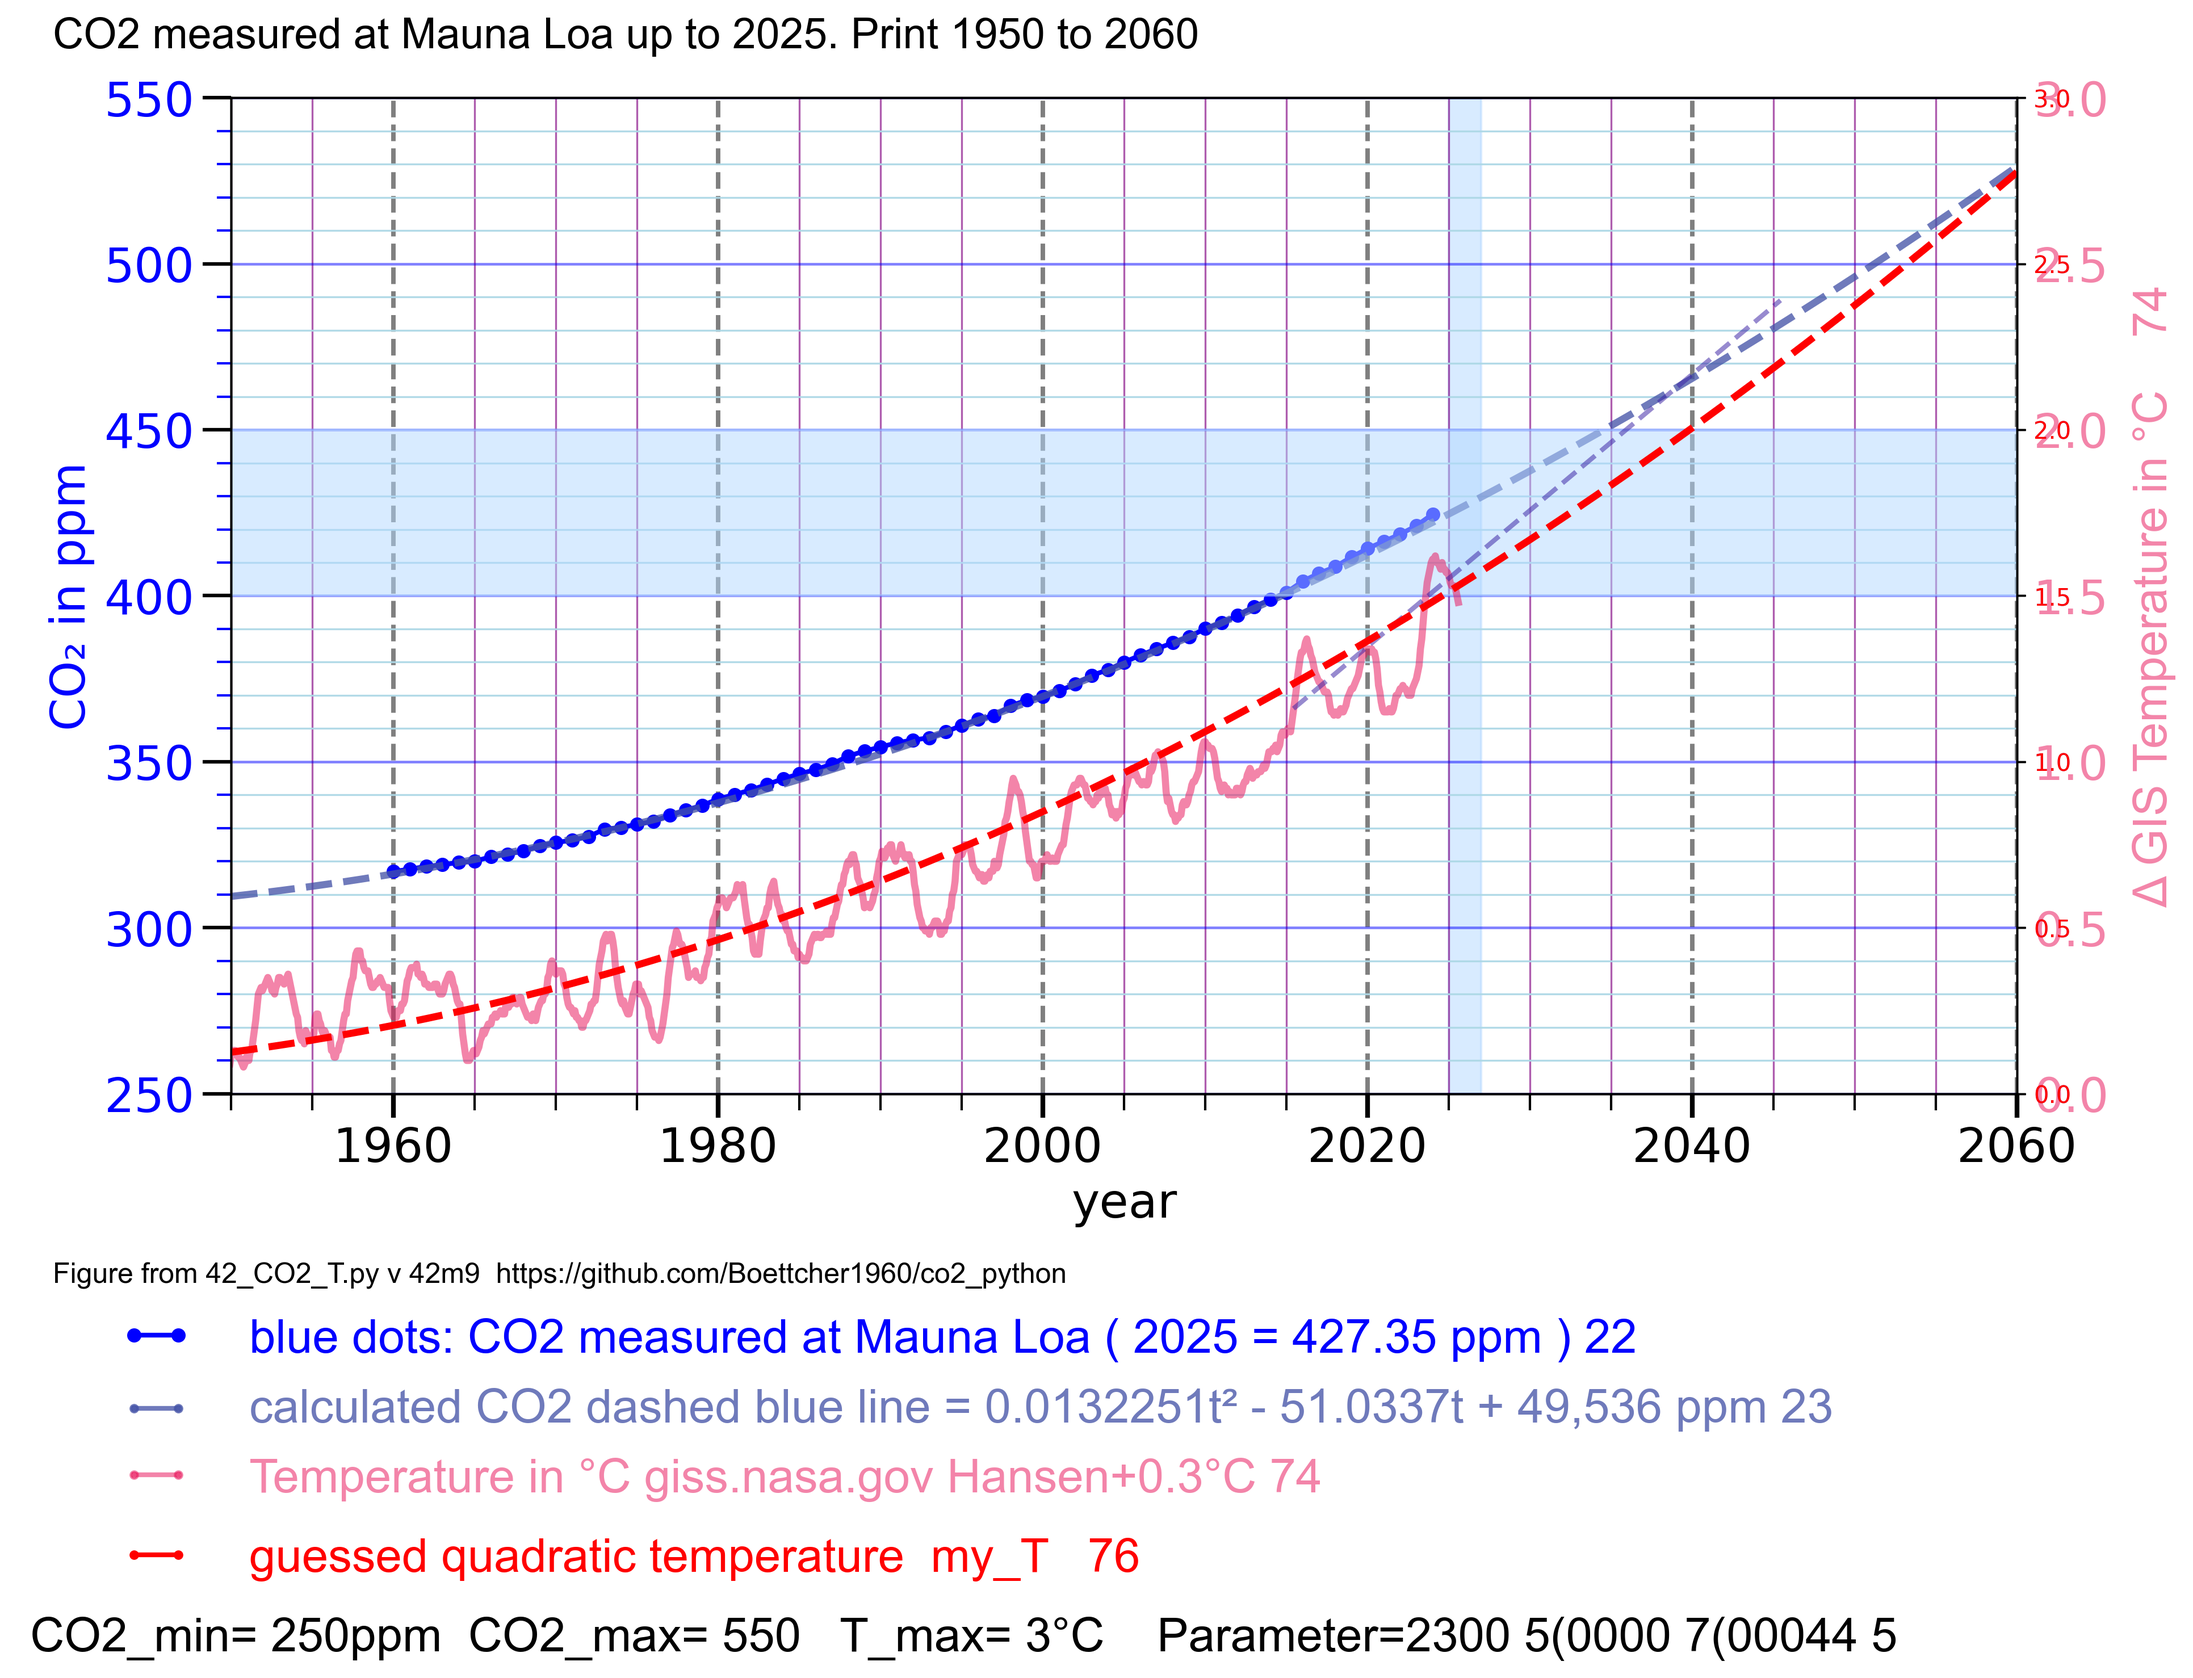
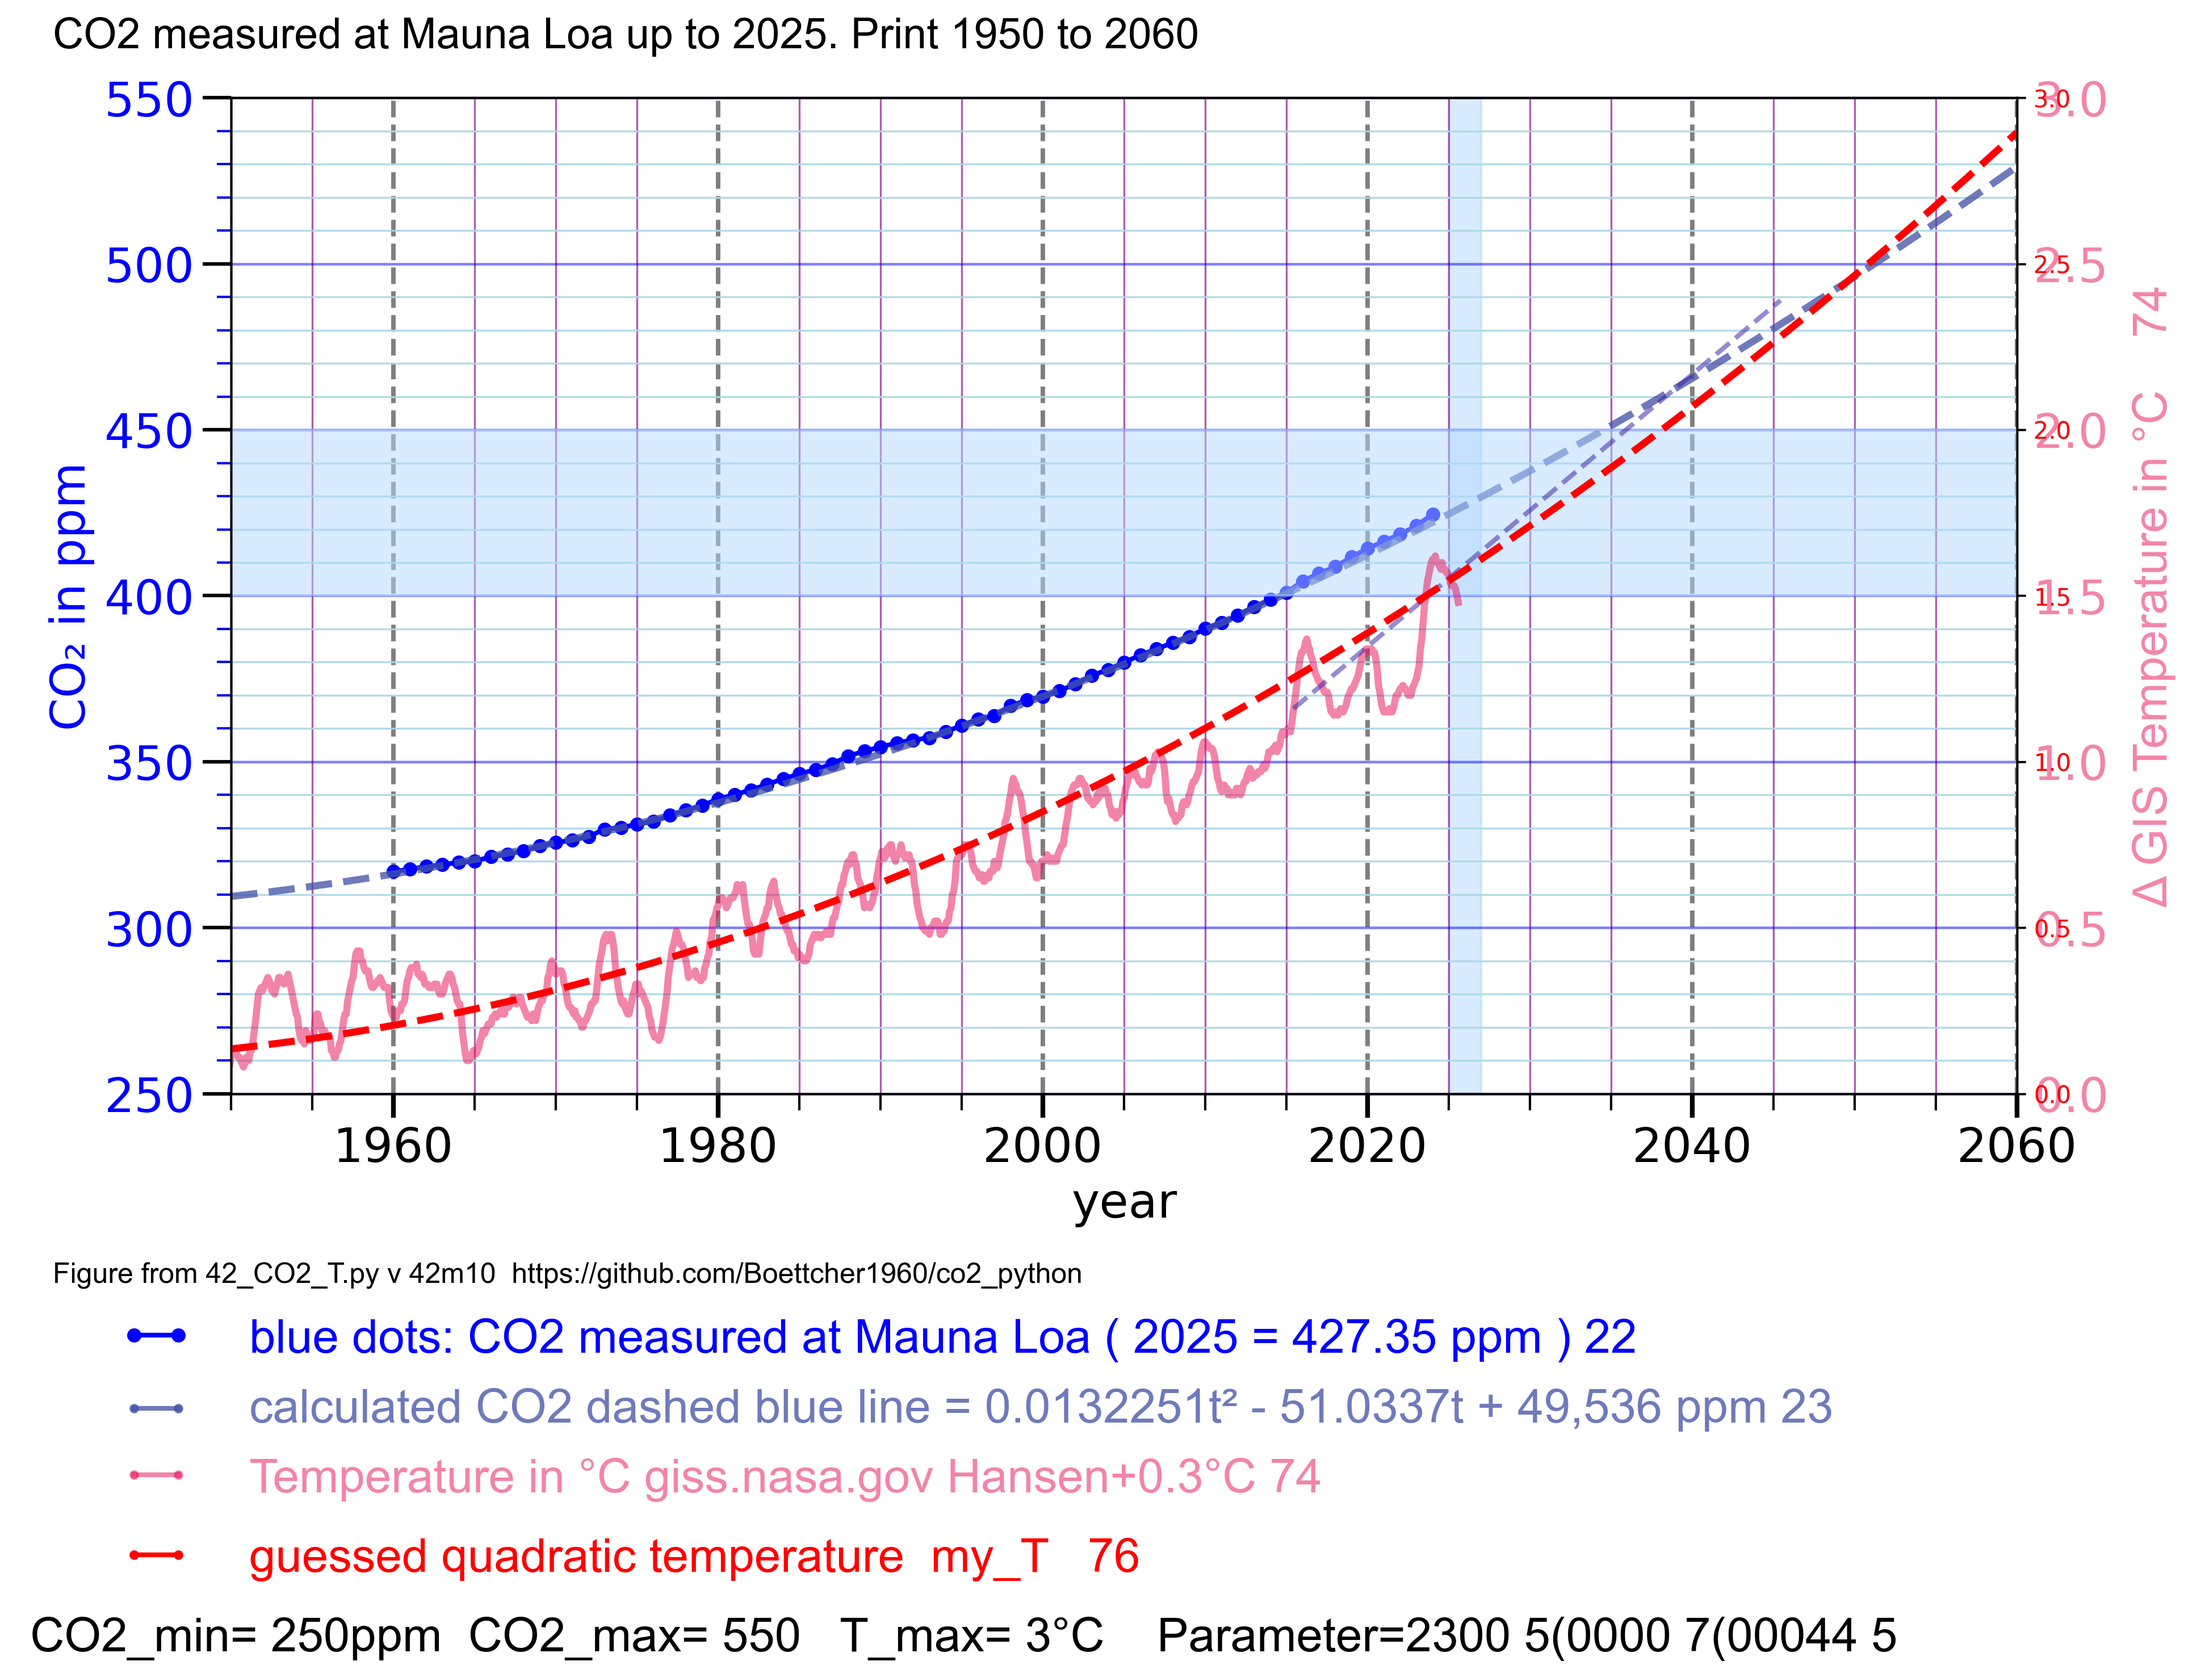
v = "42m10" #  plot76_my_T

diff --git a/42_CO2_T.py b/42_CO2_T.py
@@ -1,5 +1,5 @@
 # 42_CO2_T.py 
-v = "42m9" #  plot76_my_T
+v = "42m10" #  plot76_my_T
 # Thomas Boettcher
 # part 1 configure 
 # part 2.2 plot CO2 Mauna Loa
@@ -596,9 +596,12 @@ my76_text="guessed quadratic temperature  my_T   76 "
 def T_model76m4(t):
     x = t - 2000
     return 0.00016 * x**2 + 0.0225 * x + 0.85
+def T_model76m5(t):
+    x = t - 2000
+    return 0.00017 * x**2 + 0.0233 * x + 0.85
 def T_model76(t):
     x = t - 2000
-    return 0.00016 * x**2 + 0.0225 * x + 0.85
+    return 0.00018 * x**2 + 0.0233 * x + 0.85
 # 7.6.2 years scale x axis
 years76 = np.arange(x_anf, x_end + 1 )
 T_76values = T_model76(years76)
